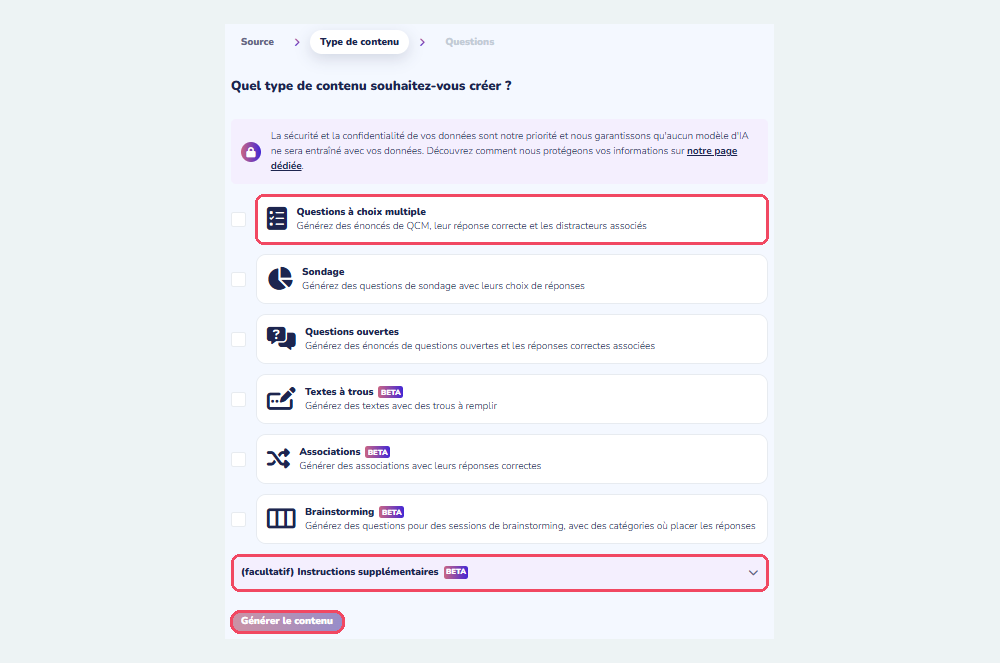
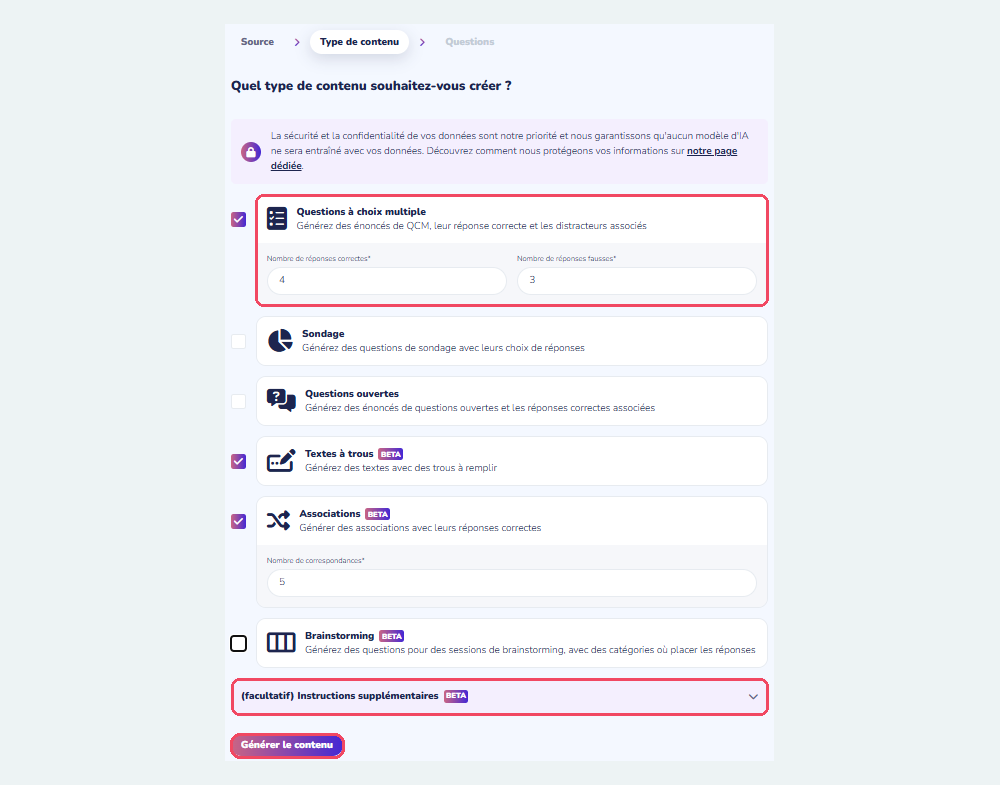
Wooclap : étapes 5 (questions générées) et 6 (Légender une image) avec captures
Claude-Session: https://claude.ai/code/session_01ADR9hzhyEw6Dc3N18BUyt5

diff --git a/docs/creation/wooclap.md b/docs/creation/wooclap.md
@@ -134,17 +134,54 @@ Le bouton **Démarrer l'événement**, en haut à droite, servira à lancer la s
 
     ![Document déposé et choix des pages](wooclap-04-document.png)
 
-4. À **Quel type de contenu souhaitez-vous créer ?**, cochez un ou plusieurs types : **Questions à choix multiple**, **Sondage**, **Questions ouvertes**, **Textes à trous**, **Associations** ou **Brainstorming**.
+4. À **Quel type de contenu souhaitez-vous créer ?**, cochez un ou plusieurs types : **Questions à choix multiple**, **Sondage**, **Questions ouvertes**, **Textes à trous**, **Associations** ou **Brainstorming**. Pour certains types, précisez le nombre d'éléments, par exemple le **Nombre de réponses correctes** et le **Nombre de réponses fausses** d'un QCM.
 5. Dépliez **(facultatif) Instructions supplémentaires** pour préciser votre public et vos attentes (voir l'exemple dans les cas d'usage), puis cliquez sur **Générer le contenu**.
 
     ![Type de contenu, Instructions supplémentaires et Générer le contenu](wooclap-04-type-contenu.png)
 
 </div>
 
+<div class="etape" markdown>
+
+### <span class="etape-num">5</span> Relire et modifier les questions générées
+
+Les questions générées s'affichent les unes sous les autres. **Relisez chacune d'elles** avant de l'ajouter à votre événement :
+
+1. Cochez ou décochez les cases pour indiquer les **bonnes réponses**.
+2. Cliquez dans une proposition pour la corriger, ou sur la **corbeille** pour la supprimer.
+3. Ajoutez au besoin vos propres éléments avec **Ajouter une proposition manuellement** ou **Ajouter une question manuellement**.
+
+![Questions générées : case de bonne réponse, proposition modifiable et corbeille](wooclap-05-questions.png)
+
+!!! warning "Attention aux formules"
+    Les formules mathématiques peuvent s'afficher sous forme de code (par exemple `\(\rho=\dfrac{n\times M}{a^3}\)`) au lieu d'une formule lisible. Réécrivez-les en texte simple, par exemple « ρ = n × M / (N_A × a³) », avant d'ajouter les questions.
+
+Quand tout est relu, cliquez sur **Ajouter les questions à l'événement**, en bas de la page. **Générer plus de contenu sur la même section** propose d'autres questions, et **Exporter** les enregistre dans un fichier.
+
+![Fin de la liste : Ajouter une question manuellement, Générer plus de contenu et Ajouter les questions à l'événement](wooclap-05-ajouter.png)
+
+</div>
+
+<div class="etape" markdown>
+
+### <span class="etape-num">6</span> Rendre un schéma interactif
+
+Les étudiants retrouvent les légendes masquées d'un schéma technique.
+
+1. Dans l'événement, cliquez sur **Créer une question**, puis sur **Légender une image**, dans la rubrique **Évaluer la compréhension** (voir la capture de l'étape 4).
+2. Dans **Titre de la question**, écrivez la consigne, par exemple « Replacez chaque légende sur le schéma de la maille CFC ».
+3. Chargez votre schéma dans la partie **Image**.
+4. Si le schéma comporte déjà ses légendes, cliquez sur **Auto-légender cette image** : l'IA repère les légendes, place les repères numérotés et masque le texte. Sinon, cliquez sur l'image pour placer chaque repère, puis saisissez la réponse attendue dans **Étiquette 1**, **Étiquette 2**… (bouton **Nouvelle étiquette**).
+5. Vérifiez les repères et les étiquettes. **Flouter une zone de l'image** permet de masquer une partie restée visible.
+6. Dans le panneau de droite, laissez **Ignorer les petites erreurs** activé : les erreurs d'accents et de majuscules ne seront pas pénalisées.
+7. Cliquez sur **Sauvegarder**, ou sur **Afficher maintenant** pour poser la question tout de suite.
+
+![Question Légender une image : Auto-légender cette image, Nouvelle étiquette, Sauvegarder et Afficher maintenant](wooclap-06-legender.png)
+
+</div>
+
 <!--
 Étapes restant à rédiger (captures à recevoir) :
- 5. Relire et modifier les questions générées
- 6. Rendre un schéma interactif (Légender une image)
  7. Lancer l'événement : vue participant (capture prête dans le dossier de travail)
  8. Classer et résumer les réponses avec l'IA
  9. Consulter les résultats après le cours
